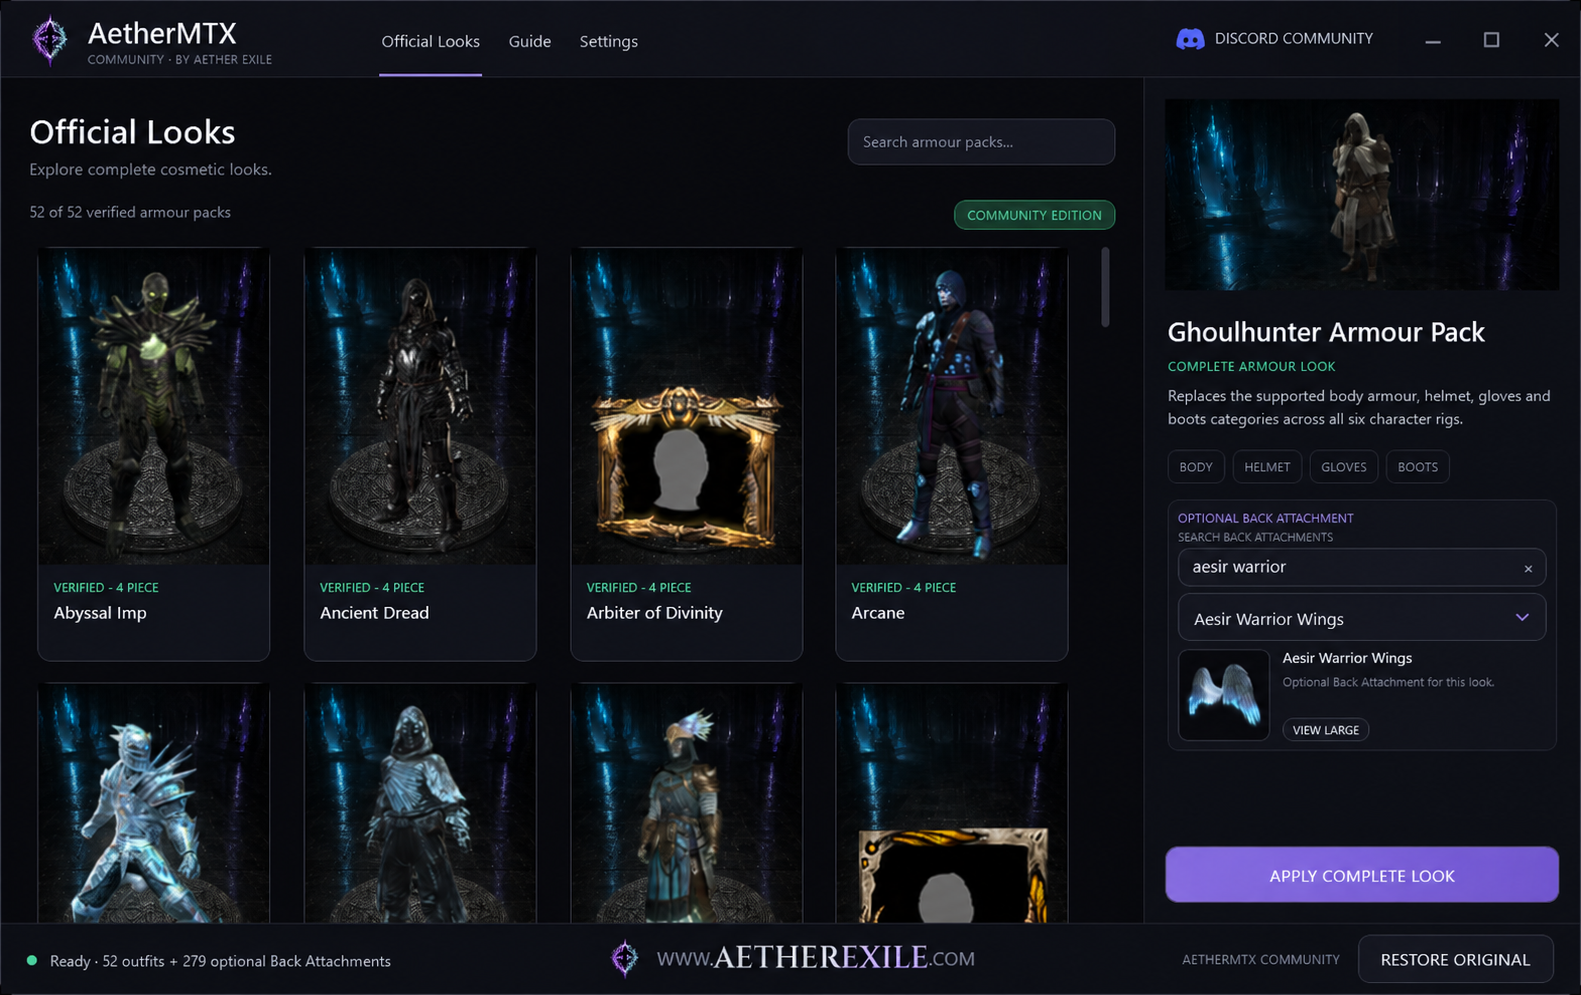
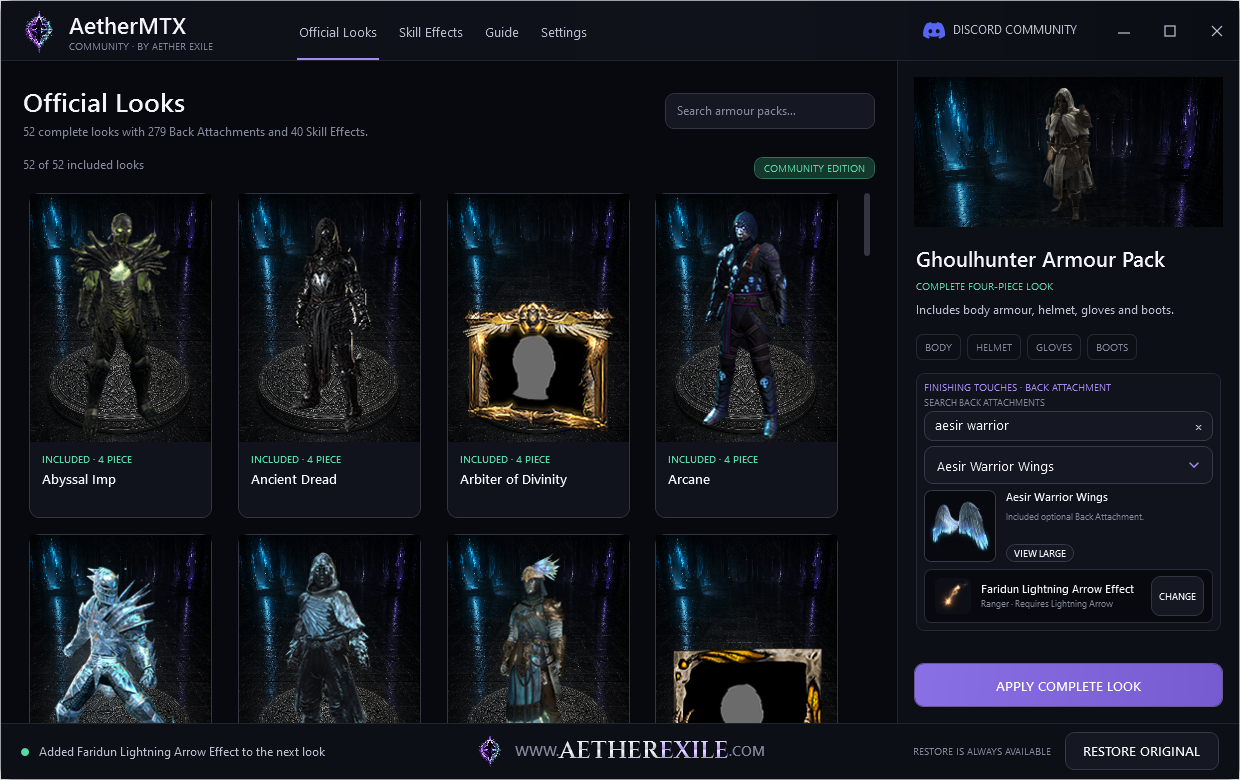
Update Community Edition documentation for 1.1.0

diff --git a/README.md b/README.md
@@ -1,6 +1,6 @@
 [![AetherMTX Community Edition](assets/community-hero.png)](https://discord.gg/KNd66FXtvw)
 
-# 52 COMPLETE LOOKS · 279 BACK ATTACHMENTS
+# 52 COMPLETE LOOKS · 279 BACK ATTACHMENTS · 40 SKILL EFFECTS
 
 ## FREE COMMUNITY EDITION
 
@@ -8,17 +8,17 @@
 
 **Get builds, patch-status updates, showcases and support.** Discord is the main community hub, but it is not a technical requirement and never unlocks features.
 
-**[DOWNLOAD FROM GITHUB RELEASES](https://github.com/AetherExile/aethermtx-community/releases/latest)** · [Official website](https://www.aetherexile.com)
+**[DOWNLOAD VERSION 1.1.0](https://github.com/AetherExile/aethermtx-community/releases/download/v1.1.0/AetherMTX-Community-1.1.0.exe)** · [Release notes](https://github.com/AetherExile/aethermtx-community/releases/tag/v1.1.0) · [Official website](https://www.aetherexile.com)
 
-| 52 COMPLETE LOOKS | 279 BACK ATTACHMENTS | GGG + STEAM | WINDOWS X64 |
+| 52 COMPLETE LOOKS | 279 BACK ATTACHMENTS | 40 SKILL EFFECTS | 8 CLASS COLLECTIONS |
 | --- | --- | --- | --- |
-| SEARCH AND PREVIEWS | SIMPLE APPLY FLOW | RESTORE ORIGINAL | COMMUNITY SUPPORT |
+| GGG + STEAM | SEARCH AND PREVIEWS | RESTORE ORIGINAL | COMPLETELY FREE |
 
-![AetherMTX gallery with local previews and optional Back Attachment](assets/community-gallery.png)
+![AetherMTX gallery with complete looks, optional Back Attachments and Skill Effects](assets/community-gallery.png)
 
 This is the official download and documentation repository for AetherMTX Community Edition. The application is free to use and distributed as a compiled Windows application. It is not open source.
 
-Everything documented here refers specifically to Community Edition. Features and catalogs may differ between AetherMTX editions.
+Everything documented here refers specifically to Community Edition. Features and catalogues may differ between AetherMTX editions.
 
 ## Download and verify
 
@@ -28,23 +28,31 @@ Current release:
 
 | Field | Value |
 | --- | --- |
-| Version | `1.0.11` |
-| File | `AetherMTX-Community-1.0.11.exe` |
-| Size | `177553871` bytes |
[1 lines of base64/hex data omitted]
+| Version | `1.1.0` |
+| File | `AetherMTX-Community-1.1.0.exe` |
+| Size | `177703887` bytes |
[1 lines of base64/hex data omitted]
 | Signature | Not signed |
 | Platform | Windows x64 |
 | Game distribution | GGG standalone and Steam |
 
 ## What Community Edition includes
 
-- 52 Official Looks backed by 43 complete armour cores.
+- 52 complete Official Looks backed by 43 armour cores.
 - 279 optional Back Attachments in the same Apply flow.
-- Apply and Restore Original controls.
-- Search and visual previews.
-- No Discord requirement and no paid unlock.
+- 40 Skill Effects arranged into one curated collection for each current class.
+- Search by effect, required skill or collection, plus class filters and exact local previews.
+- One Skill Effect can be added to the selected complete look.
+- Unlimited Apply and Restore Original controls.
+- No account, login, license key, payment, subscription or Discord requirement.
 
-AetherMTX Community Edition supports both the standalone Grinding Gear Games client and Steam. The same catalog and Apply flow are available on either installation.
+A Skill Effect requires the matching skill. It does not add cosmetic ownership to an account. AetherMTX Community Edition supports both the standalone Grinding Gear Games client and Steam.
+
+## Skill Effects
+
+Version 1.1.0 adds 40 effects across Ranger, Huntress, Mercenary, Warrior, Monk, Witch, Sorceress and Druid.
+
+![AetherMTX Skill Effects browser with all eight class collections](assets/skill-effects.png)
 
 ## How it works
 
@@ -53,14 +61,22 @@ AetherMTX Community Edition supports both the standalone Grinding Gear Games cli
 3. Start AetherMTX Community Edition.
 4. Select the GGG or Steam installation you want to use if it is not detected.
 5. Choose an Official Look and, optionally, a Back Attachment.
-6. Select Apply and wait for it to finish.
-7. Launch the game, or use Restore Original whenever you want to undo the selected look.
+6. Open Skill Effects and add one compatible effect if wanted.
+7. Select Apply Complete Look and wait for it to finish.
+8. Launch the game, or use Restore Original whenever you want to undo the selected combination.
 
 Use a Community Edition release marked compatible with your current game version. Keep the application closed while the game is running, and close the game again before Apply or Restore.
 
-## See Community Edition
+## Continue with Aether Exile
 
-The gallery shows Official Looks and optional Back Attachments inside the AetherMTX interface.
+Community Edition is permanently free and complete as documented above.
+
+- **AetherMTX Free** contains the complete supported offline catalogue with all 123 Skill Effects and custom profiles.
+- **AetherShift** provides supported live cosmetic changes.
+
+[Join the optional Aether Exile community](https://discord.gg/KNd66FXtvw) to find both products, builds, showcases and support. Joining Discord never unlocks Community Edition features.
+
+## See Community Edition
 
 ### Optional Back Attachment preview
 

diff --git a/PUBLIC-CONTENT-MANIFEST.md b/PUBLIC-CONTENT-MANIFEST.md
@@ -20,6 +20,7 @@ assets/community-gallery.png
 assets/community-hero.png
 assets/community-hero-ownedcore.png
 assets/community-stage.png
+assets/skill-effects.png
 .github/ISSUE_TEMPLATE/bug.yml
 .github/ISSUE_TEMPLATE/config.yml
 ```
@@ -30,11 +31,13 @@ assets/community-stage.png
 | --- | ---: | --- | --- |
[7 lines of base64/hex data omitted]
-`community-gallery.png` and `back-attachment-preview.png` may show cosmetic imagery only inside substantial AetherMTX application chrome. They contain no raw extracted asset, Character Select view, local path or account data.
[1 lines of base64/hex data omitted]
+
+The product screenshots may show cosmetic imagery only inside substantial AetherMTX application chrome. They contain no raw extracted asset, Character Select view, local path or account data.
 
 ## Release assets
 
@@ -42,7 +45,7 @@ Release executables and their checksums are uploaded only after final review and
 
 | File | Bytes | SHA-256 |
 | --- | ---: | --- |
[2 lines of base64/hex data omitted]
 
 ## Review rule
 

diff --git a/FAQ.md b/FAQ.md
@@ -18,7 +18,11 @@ No. Close Path of Exile 2 and its launcher before using Apply or Restore Origina
 
 ## What does it include?
 
-Community Edition includes 52 Official Looks, 43 complete armour cores and 279 optional Back Attachments. Apply and Restore are unlimited.
+Community Edition includes 52 Official Looks, 43 complete armour cores, 279 optional Back Attachments and 40 Skill Effects across all 8 current classes. Apply and Restore are unlimited.
+
+## How do Skill Effects work?
+
+Choose one effect in the Skill Effects browser and add it to the next complete look. The character must use the matching skill. Community Edition changes the local appearance but does not add cosmetic ownership to an account.
 
 ## Why is the EXE unsigned?
 
@@ -32,7 +36,7 @@ No such claim is made. This is an independent third-party tool that changes game
 
 ## What does Restore Original do?
 
-Restore Original removes the currently applied Community Edition look and returns the supported installation to its original appearance. Let the operation finish before launching the game.
+Restore Original removes the currently applied Community Edition combination and returns the supported installation to its original appearance. Let the operation finish before launching the game.
 
 ## What happens after a game update?
 
@@ -41,6 +45,10 @@ Do not assume an older release supports a new game build. Check the latest relea
 ## Is Discord required for support?
 
 No. The [Aether Exile Discord](https://discord.gg/KNd66FXtvw) is the main community hub for builds, patch-status updates, showcases and help, but GitHub Issues and direct Releases remain available without joining.
+
+## What is available beyond Community Edition?
+
+AetherMTX Free contains the complete supported offline catalogue with all 123 Skill Effects and custom profiles. AetherShift provides supported live cosmetic changes. Both are available through the optional Aether Exile community.
 
 ## Can I redistribute the EXE?
 

diff --git a/CHANGELOG.md b/CHANGELOG.md
@@ -1,5 +1,28 @@
 # Changelog
 
+## 1.1.0
+
+Release status: published on GitHub Releases.
+
+### Added
+
+- 40 Skill Effects arranged into one curated collection for each of the 8 current classes.
+- Search by effect, required skill or collection.
+- Class filters, exact local previews and clear Requires skill labels.
+- One optional Skill Effect in the complete look Apply flow.
+
+### Improved
+
+- Apply Complete Look now handles the Official Look, optional Back Attachment and optional Skill Effect together.
+- Restore Original covers all three cosmetic layers in one operation.
+- Community Edition navigation and selected-item inspection for the expanded catalogue.
+
+### Safety
+
+- Skill Effects use the same closed-game, exact-build and recovery protections as the existing catalogue.
+- Repeated Apply rebuilds from the pristine installation state instead of stacking changes.
+- GGG standalone and Steam remain isolated and independently recoverable.
+
 ## 1.0.11
 
 Release status: published on GitHub Releases.
